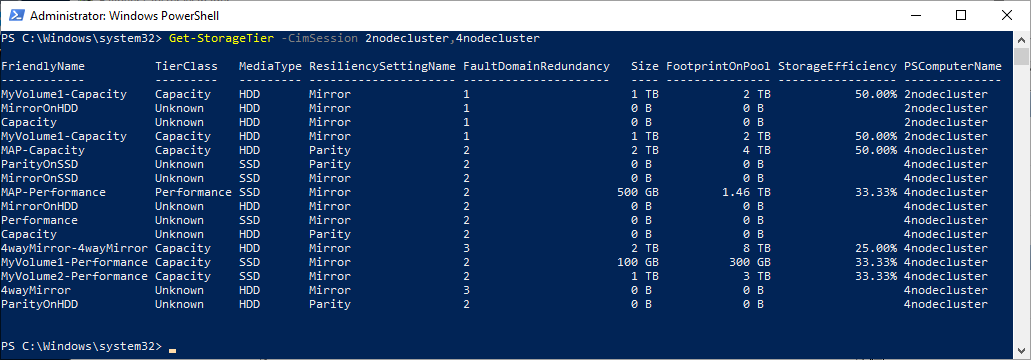
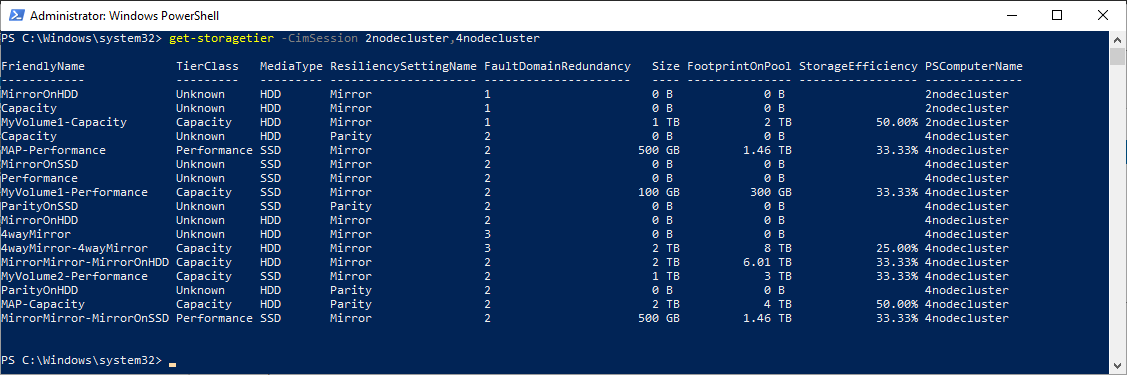
fix
Former-commit-id: aef9e687a10dec13f7fae508ff53ef745abd3ac2

diff --git a/Scenarios/S2D Volumes deep dive/readme.md b/Scenarios/S2D Volumes deep dive/readme.md
@@ -154,6 +154,7 @@ To be able to see all attributes, you can run following command
 
 ```PowerShell
 Get-VirtualDisk -CimSession 2nodeCluster -FriendlyName MyVolume | fl *
+ 
 ```
 
 ![](/Scenarios/S2D%20Volumes%20deep%20dive/Screenshots/GetVirtualDisk1.png)
@@ -280,8 +281,12 @@ New-Volume -StoragePoolFriendlyName s2d* -FriendlyName 4wayMirror -FileSystem CS
 
 To display volumes you can use get-virtualdisk or get-storagetier (bit confusing, isn't it? :) )
 
+```PowerShell
+get-virtualdisk -CimSession 2nodecluster,4nodecluster
+get-storagetier -CimSession 2nodecluster,4nodecluster
+ 
+```
 ![](/Scenarios/S2D%20Volumes%20deep%20dive/Screenshots/GetVirtualDisk4.png)
-
 
 ![](/Scenarios/S2D%20Volumes%20deep%20dive/Screenshots/GetStorageTier.png)
 
